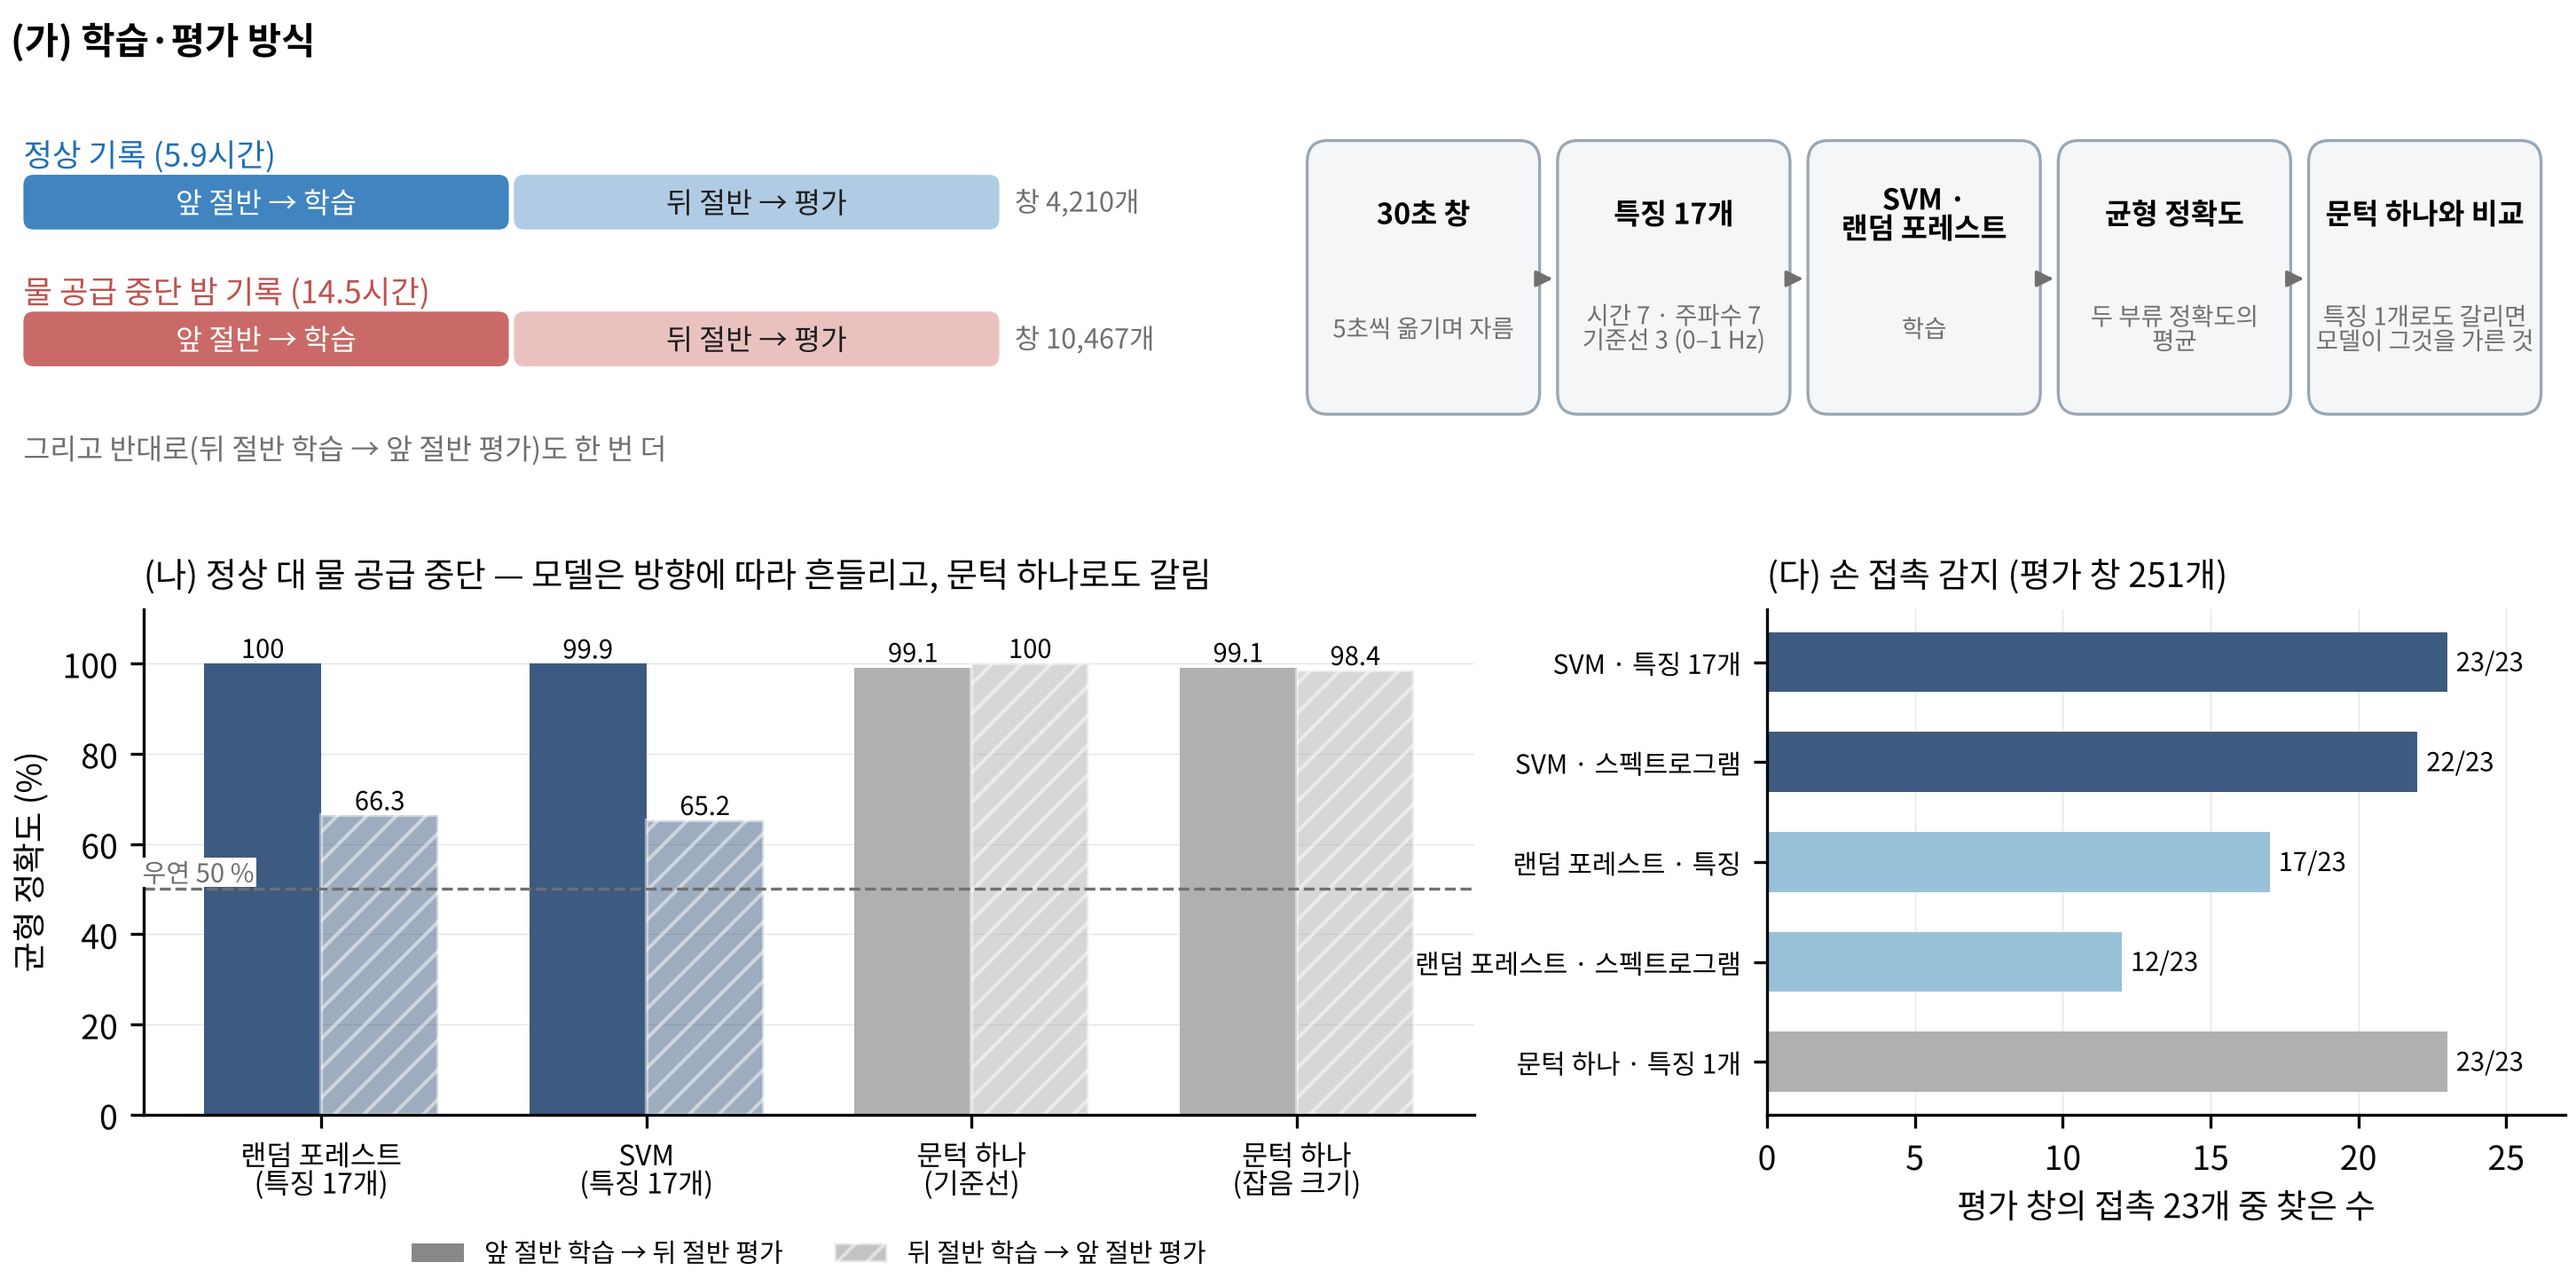
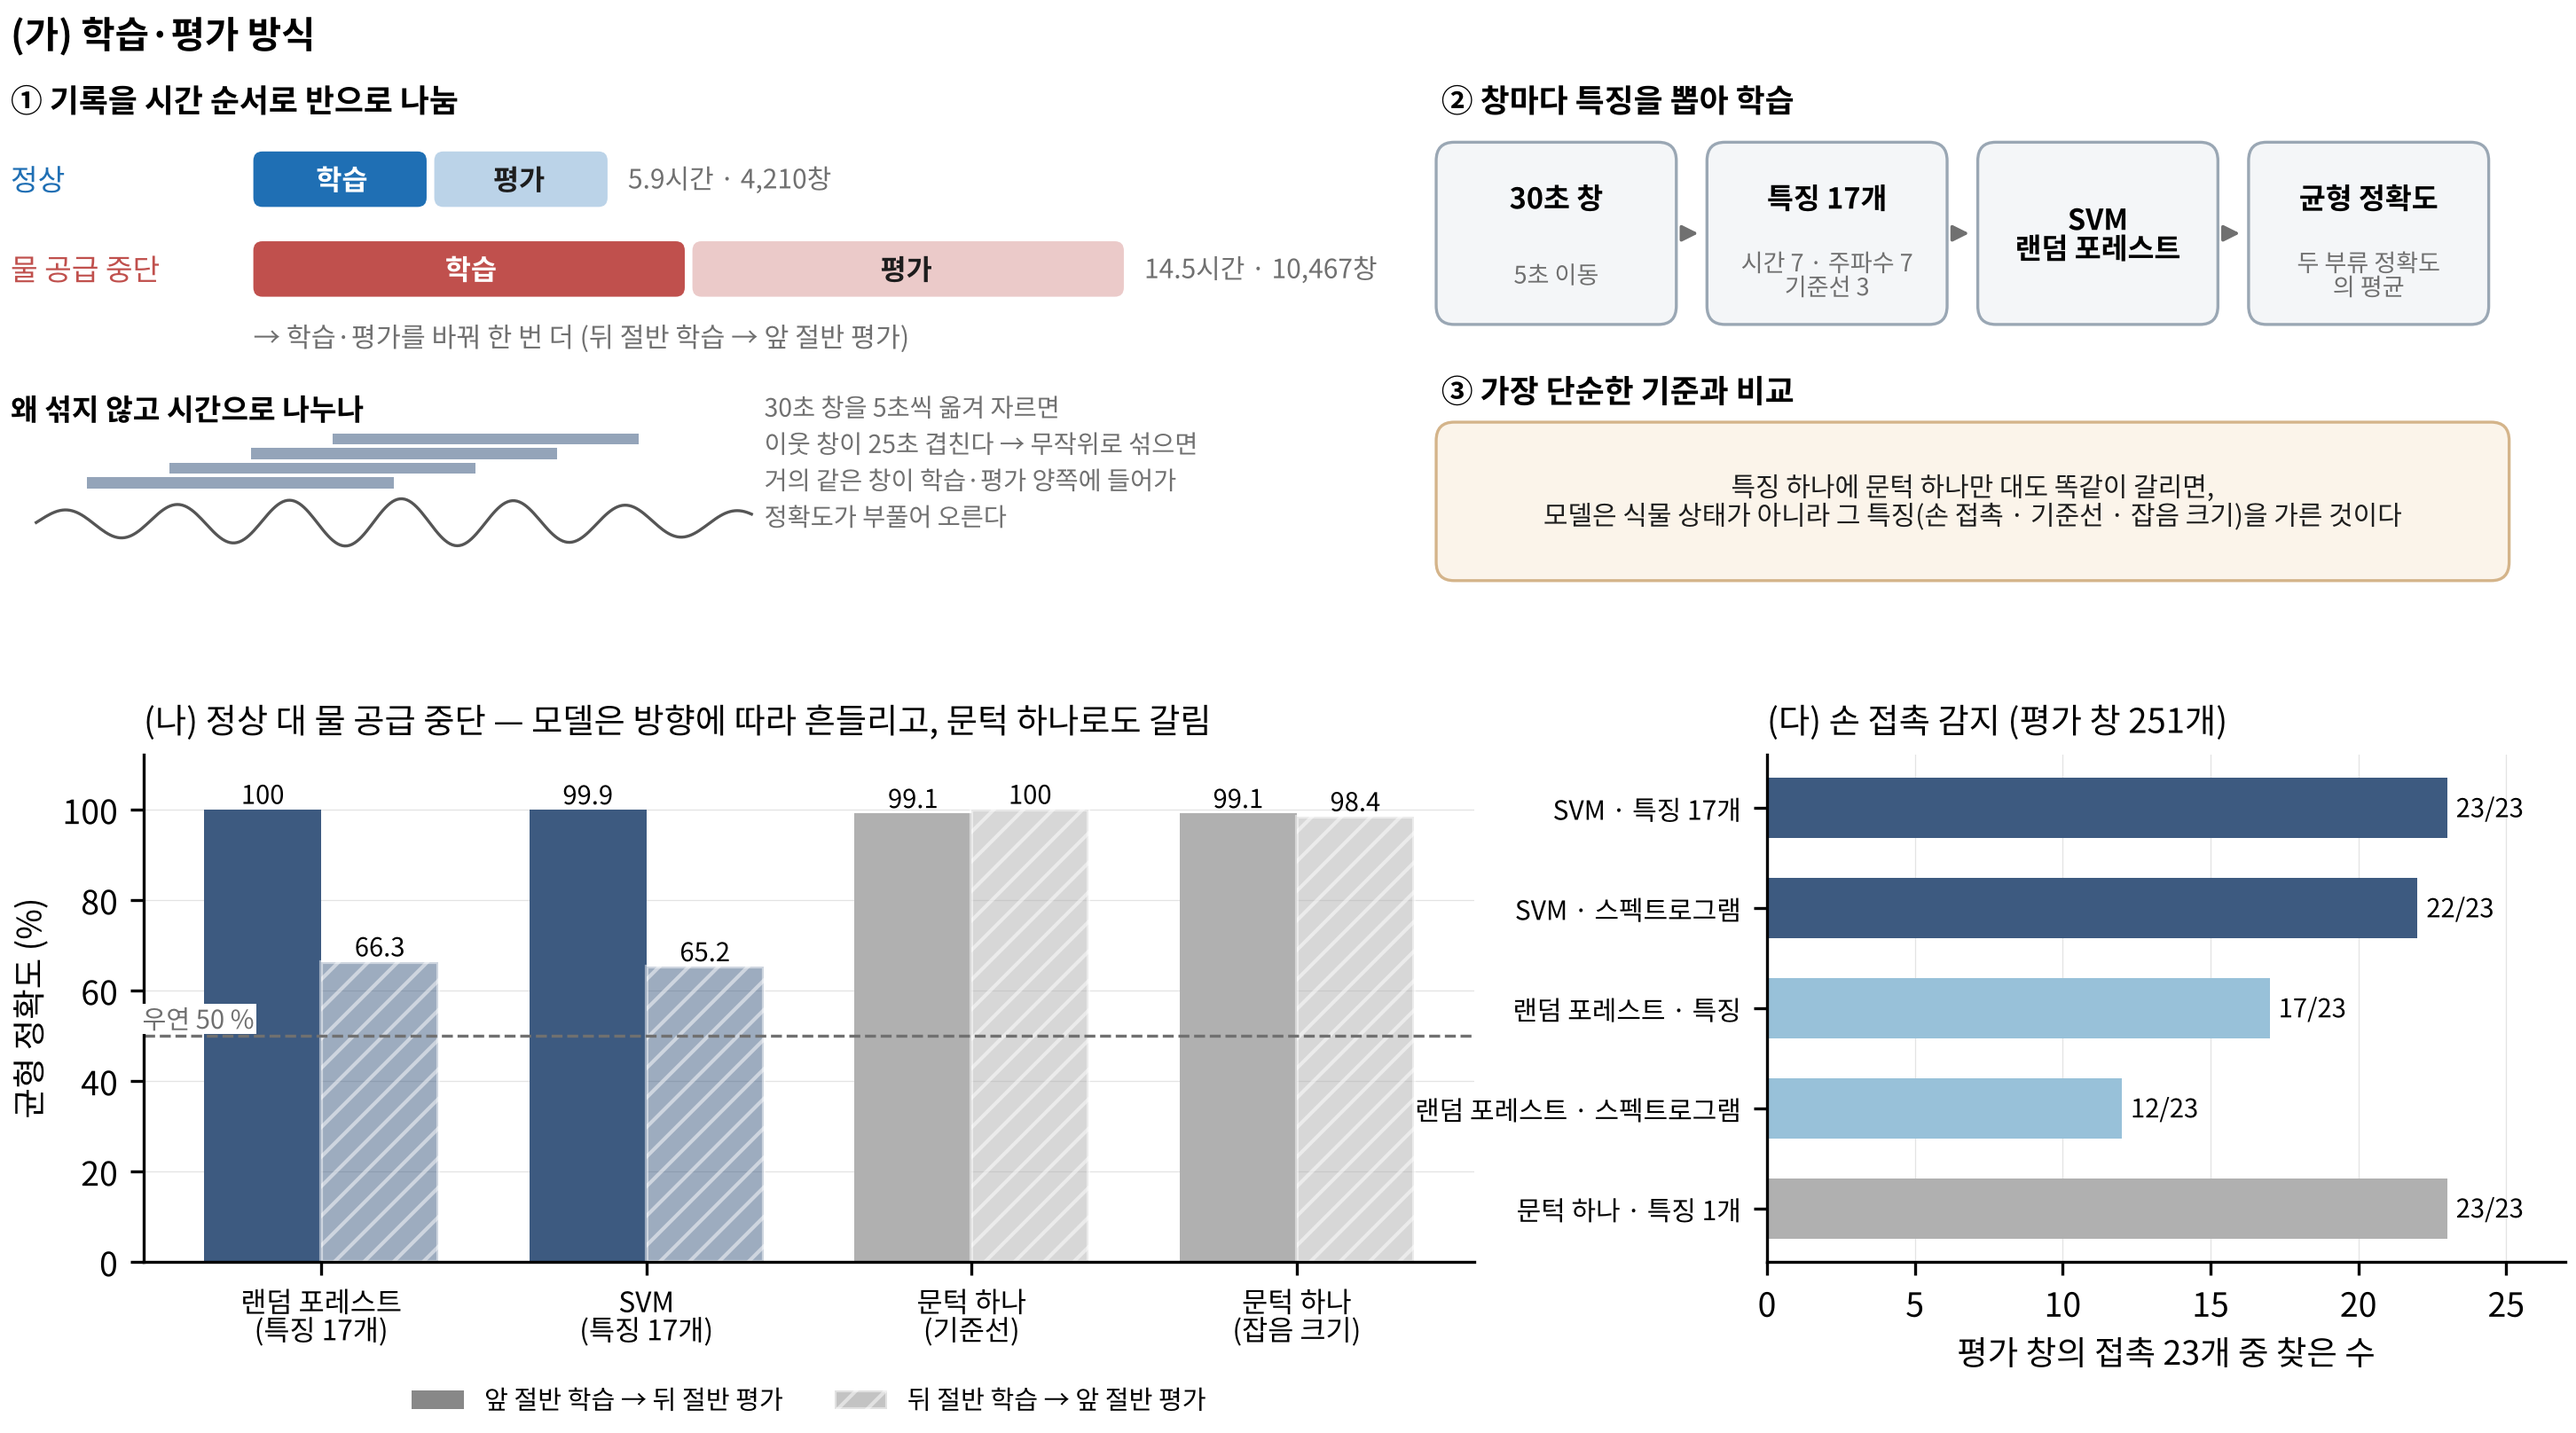
그림5 (가): 기록 길이 축척, 시간으로 나누는 이유(창 겹침), 처리 흐름·문턱 비교로 다시 그림
Claude-Session: https://claude.ai/code/session_01JhQkgfdzNkTpKPSBfVdw6o

diff --git a/report/stim/fig_ml_eval.py b/report/stim/fig_ml_eval.py
@@ -14,31 +14,50 @@ for f in ("NotoSansCJK-Regular.ttc", "NotoSansCJK-Bold.ttc"):
 plt.rcParams.update({"font.family": "Noto Sans CJK JP", "axes.unicode_minus": False, "font.size": 9})
 INK, GRAY, OK, DRY, M1, M2, TH = "#1d1d1d", "#707070", "#1f6fb4", "#c0504d", "#3d5a80", "#98c1d9", "#b0b0b0"
 
-fig = plt.figure(figsize=(10, 5.0), dpi=300)
+fig = plt.figure(figsize=(10, 5.6), dpi=300)
 # (가) 학습·평가 방식
-a = fig.add_axes([0.02, 0.63, 0.96, 0.36]); a.set_xlim(0, 100); a.set_ylim(2.5, 20); a.axis("off")
-a.text(0, 19.6, "(가) 학습·평가 방식", fontsize=10, fontweight="bold", va="top")
-for y, lab, col, n in ((13.3, "정상 기록 (5.9시간)", OK, "창 4,210개"), (8.3, "물 공급 중단 밤 기록 (14.5시간)", DRY, "창 10,467개")):
-    a.text(0.5, y + 1.4, lab, fontsize=8.5, color=col, va="center")
-    a.add_patch(FancyBboxPatch((0.5, y - 1.3), 19, 2, boxstyle="round,pad=0,rounding_size=0.4", fc=col, alpha=0.85, ec="none"))
-    a.add_patch(FancyBboxPatch((19.7, y - 1.3), 19, 2, boxstyle="round,pad=0,rounding_size=0.4", fc=col, alpha=0.35, ec="none"))
-    a.text(10, y - 0.3, "앞 절반 → 학습", ha="center", va="center", fontsize=7.8, color="white")
-    a.text(29.2, y - 0.3, "뒤 절반 → 평가", ha="center", va="center", fontsize=7.8, color=INK)
-    a.text(39.3, y - 0.3, n, va="center", fontsize=7.4, color=GRAY)
-a.text(0.5, 3.6, "그리고 반대로(뒤 절반 학습 → 앞 절반 평가)도 한 번 더", fontsize=7.8, color=GRAY)
-steps = [("30초 창", "5초씩 옮기며 자름"), ("특징 17개", "시간 7 · 주파수 7\n기준선 3 (0–1 Hz)"), ("SVM ·\n랜덤 포레스트", "학습"),
-         ("균형 정확도", "두 부류 정확도의\n평균"), ("문턱 하나와 비교", "특징 1개로도 갈리면\n모델이 그것을 가른 것")]
-x = 51
+a = fig.add_axes([0.02, 0.60, 0.96, 0.39]); a.set_xlim(0, 100); a.set_ylim(0, 22); a.axis("off")
+a.text(0, 21.8, "(가) 학습·평가 방식", fontsize=10, fontweight="bold", va="top")
+# ① 기록을 시간으로 반 나눔(같은 축척: 1시간 = 2.35칸)
+a.text(0, 18.6, "① 기록을 시간 순서로 반으로 나눔", fontsize=8.6, fontweight="bold", va="center")
+U = 2.35
+for y, lab, col, hrs, n in ((15.6, "정상", OK, 5.9, "4,210창"), (12.2, "물 공급 중단", DRY, 14.5, "10,467창")):
+    a.text(0, y, lab, fontsize=8, color=col, va="center")
+    x0, L = 9.5, hrs * U
+    a.add_patch(FancyBboxPatch((x0, y - 1.05), L / 2 - 0.15, 2.1, boxstyle="round,pad=0,rounding_size=0.35", fc=col, ec="none"))
+    a.add_patch(FancyBboxPatch((x0 + L / 2 + 0.15, y - 1.05), L / 2 - 0.15, 2.1, boxstyle="round,pad=0,rounding_size=0.35", fc=col, alpha=0.3, ec="none"))
+    a.text(x0 + L / 4, y, "학습", ha="center", va="center", fontsize=7.6, color="white", fontweight="bold")
+    a.text(x0 + 3 * L / 4, y, "평가", ha="center", va="center", fontsize=7.6, color=INK, fontweight="bold")
+    a.text(x0 + L + 0.8, y, f"{hrs}시간 · {n}", fontsize=7.2, color=GRAY, va="center")
+a.text(9.5, 9.6, "→ 학습·평가를 바꿔 한 번 더 (뒤 절반 학습 → 앞 절반 평가)", fontsize=7.3, color=GRAY, va="center")
+# 왜 시간으로 나누나: 창이 겹침
+a.text(0, 6.9, "왜 섞지 않고 시간으로 나누나", fontsize=8, fontweight="bold", va="center")
+xs_ = np.linspace(0, 1, 300)
+a.plot(1 + 28 * xs_, 2.6 + 0.9 * np.sin(xs_ * 40) * np.exp(-((xs_ - 0.5) ** 2) * 3), color="#555555", lw=0.8)
+for k in range(4):
+    x = 3 + k * 3.2
+    a.add_patch(FancyBboxPatch((x, 3.9 + k * 0.55), 12, 0.42, boxstyle="square,pad=0", fc=M1, alpha=0.55, ec="none"))
+a.text(29.5, 4.9, "30초 창을 5초씩 옮겨 자르면\n이웃 창이 25초 겹친다 → 무작위로 섞으면\n거의 같은 창이 학습·평가 양쪽에 들어가\n정확도가 부풀어 오른다", fontsize=6.8, color=GRAY, va="center", linespacing=1.45)
+# ② 처리 흐름
+a.text(56, 18.6, "② 창마다 특징을 뽑아 학습", fontsize=8.6, fontweight="bold", va="center")
+steps = [("30초 창", "5초 이동"), ("특징 17개", "시간 7 · 주파수 7\n기준선 3"), ("SVM\n랜덤 포레스트", ""), ("균형 정확도", "두 부류 정확도\n의 평균")]
+x = 56
 for k, (t1, t2) in enumerate(steps):
-    a.add_patch(FancyBboxPatch((x, 5.5), 8.6, 9.5, boxstyle="round,pad=0.25,rounding_size=0.8", fc="#f4f6f8", ec="#9aa7b4", lw=0.8))
-    a.text(x + 4.3, 12.6, t1, ha="center", va="center", fontsize=7.8, fontweight="bold")
-    a.text(x + 4.3, 8.4, t2, ha="center", va="center", fontsize=6.6, color=GRAY)
+    a.add_patch(FancyBboxPatch((x, 10.3), 9.0, 6.5, boxstyle="round,pad=0.2,rounding_size=0.7", fc="#f4f6f8", ec="#9aa7b4", lw=0.8))
+    a.text(x + 4.5, 14.9 if t2 else 13.55, t1, ha="center", va="center", fontsize=7.8, fontweight="bold")
+    if t2:
+        a.text(x + 4.5, 12.0, t2, ha="center", va="center", fontsize=6.5, color=GRAY)
     if k:
-        a.annotate("", (x - 0.15, 10.2), (x - 0.95, 10.2), arrowprops=dict(arrowstyle="-|>", lw=0.9, color=GRAY))
-    x += 9.8
+        a.annotate("", (x - 0.25, 13.55), (x - 1.25, 13.55), arrowprops=dict(arrowstyle="-|>", lw=0.9, color=GRAY))
+    x += 10.6
+# ③ 문턱 하나와 비교
+a.text(56, 7.6, "③ 가장 단순한 기준과 비교", fontsize=8.6, fontweight="bold", va="center")
+a.add_patch(FancyBboxPatch((56, 0.6), 41.6, 5.6, boxstyle="round,pad=0.2,rounding_size=0.7", fc="#fbf4ea", ec="#d4b48a", lw=0.8))
+a.text(76.8, 3.4, "특징 하나에 문턱 하나만 대도 똑같이 갈리면,\n모델은 식물 상태가 아니라 그 특징(손 접촉 · 기준선 · 잡음 크기)을 가른 것이다",
+       ha="center", va="center", fontsize=7.2, color=INK)
 
 # (나) 정상·물 공급 중단 결과
-b = fig.add_axes([0.07, 0.16, 0.50, 0.38])
+b = fig.add_axes([0.07, 0.15, 0.50, 0.34])
 labs = ["랜덤 포레스트\n(특징 17개)", "SVM\n(특징 17개)", "문턱 하나\n(기준선)", "문턱 하나\n(잡음 크기)"]
 fwd = [100.0, 99.9, 99.1, 99.1]; bwd = [66.3, 65.2, 100.0, 98.4]
 xs = np.arange(4); w = 0.36
@@ -54,7 +73,7 @@ from matplotlib.patches import Patch
 b.legend(handles=[Patch(fc="#888888", label="앞 절반 학습 → 뒤 절반 평가"), Patch(fc="#888888", alpha=0.5, hatch="///", ec="white", label="뒤 절반 학습 → 앞 절반 평가")],
          fontsize=7, loc="upper center", bbox_to_anchor=(0.5, -0.2), ncol=2, frameon=False)
 # (다) 손 접촉
-c = fig.add_axes([0.68, 0.16, 0.30, 0.38])
+c = fig.add_axes([0.68, 0.15, 0.30, 0.34])
 tl = ["SVM · 특징 17개", "SVM · 스펙트로그램", "랜덤 포레스트 · 특징", "랜덤 포레스트 · 스펙트로그램", "문턱 하나 · 특징 1개"]
 tv = [23, 22, 17, 12, 23]
 yy = np.arange(5)[::-1]
